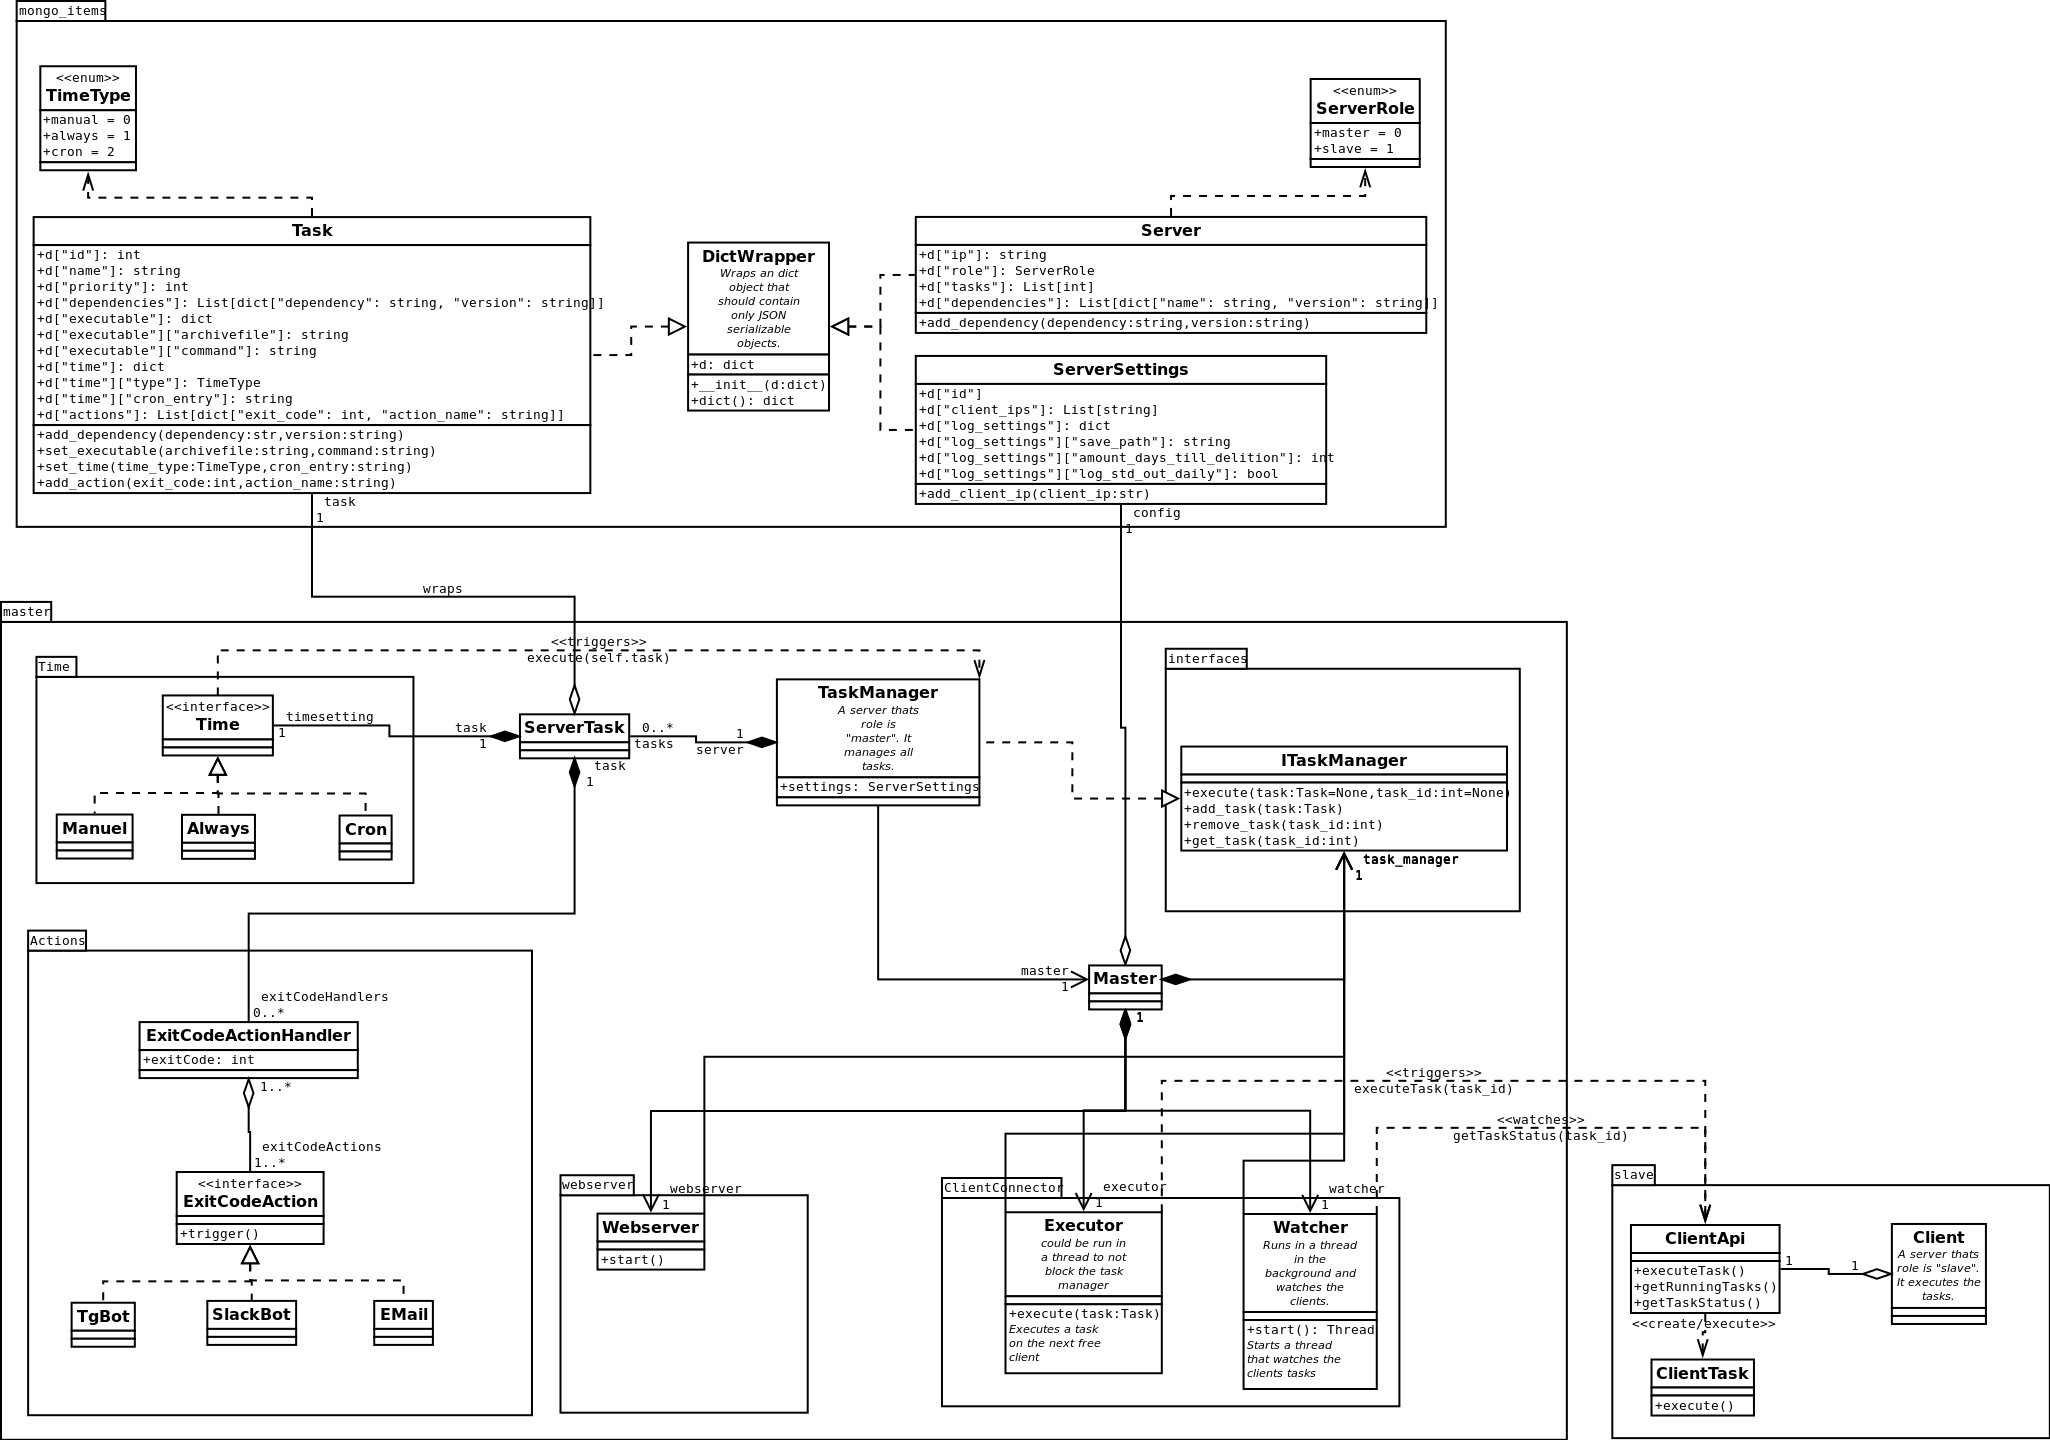
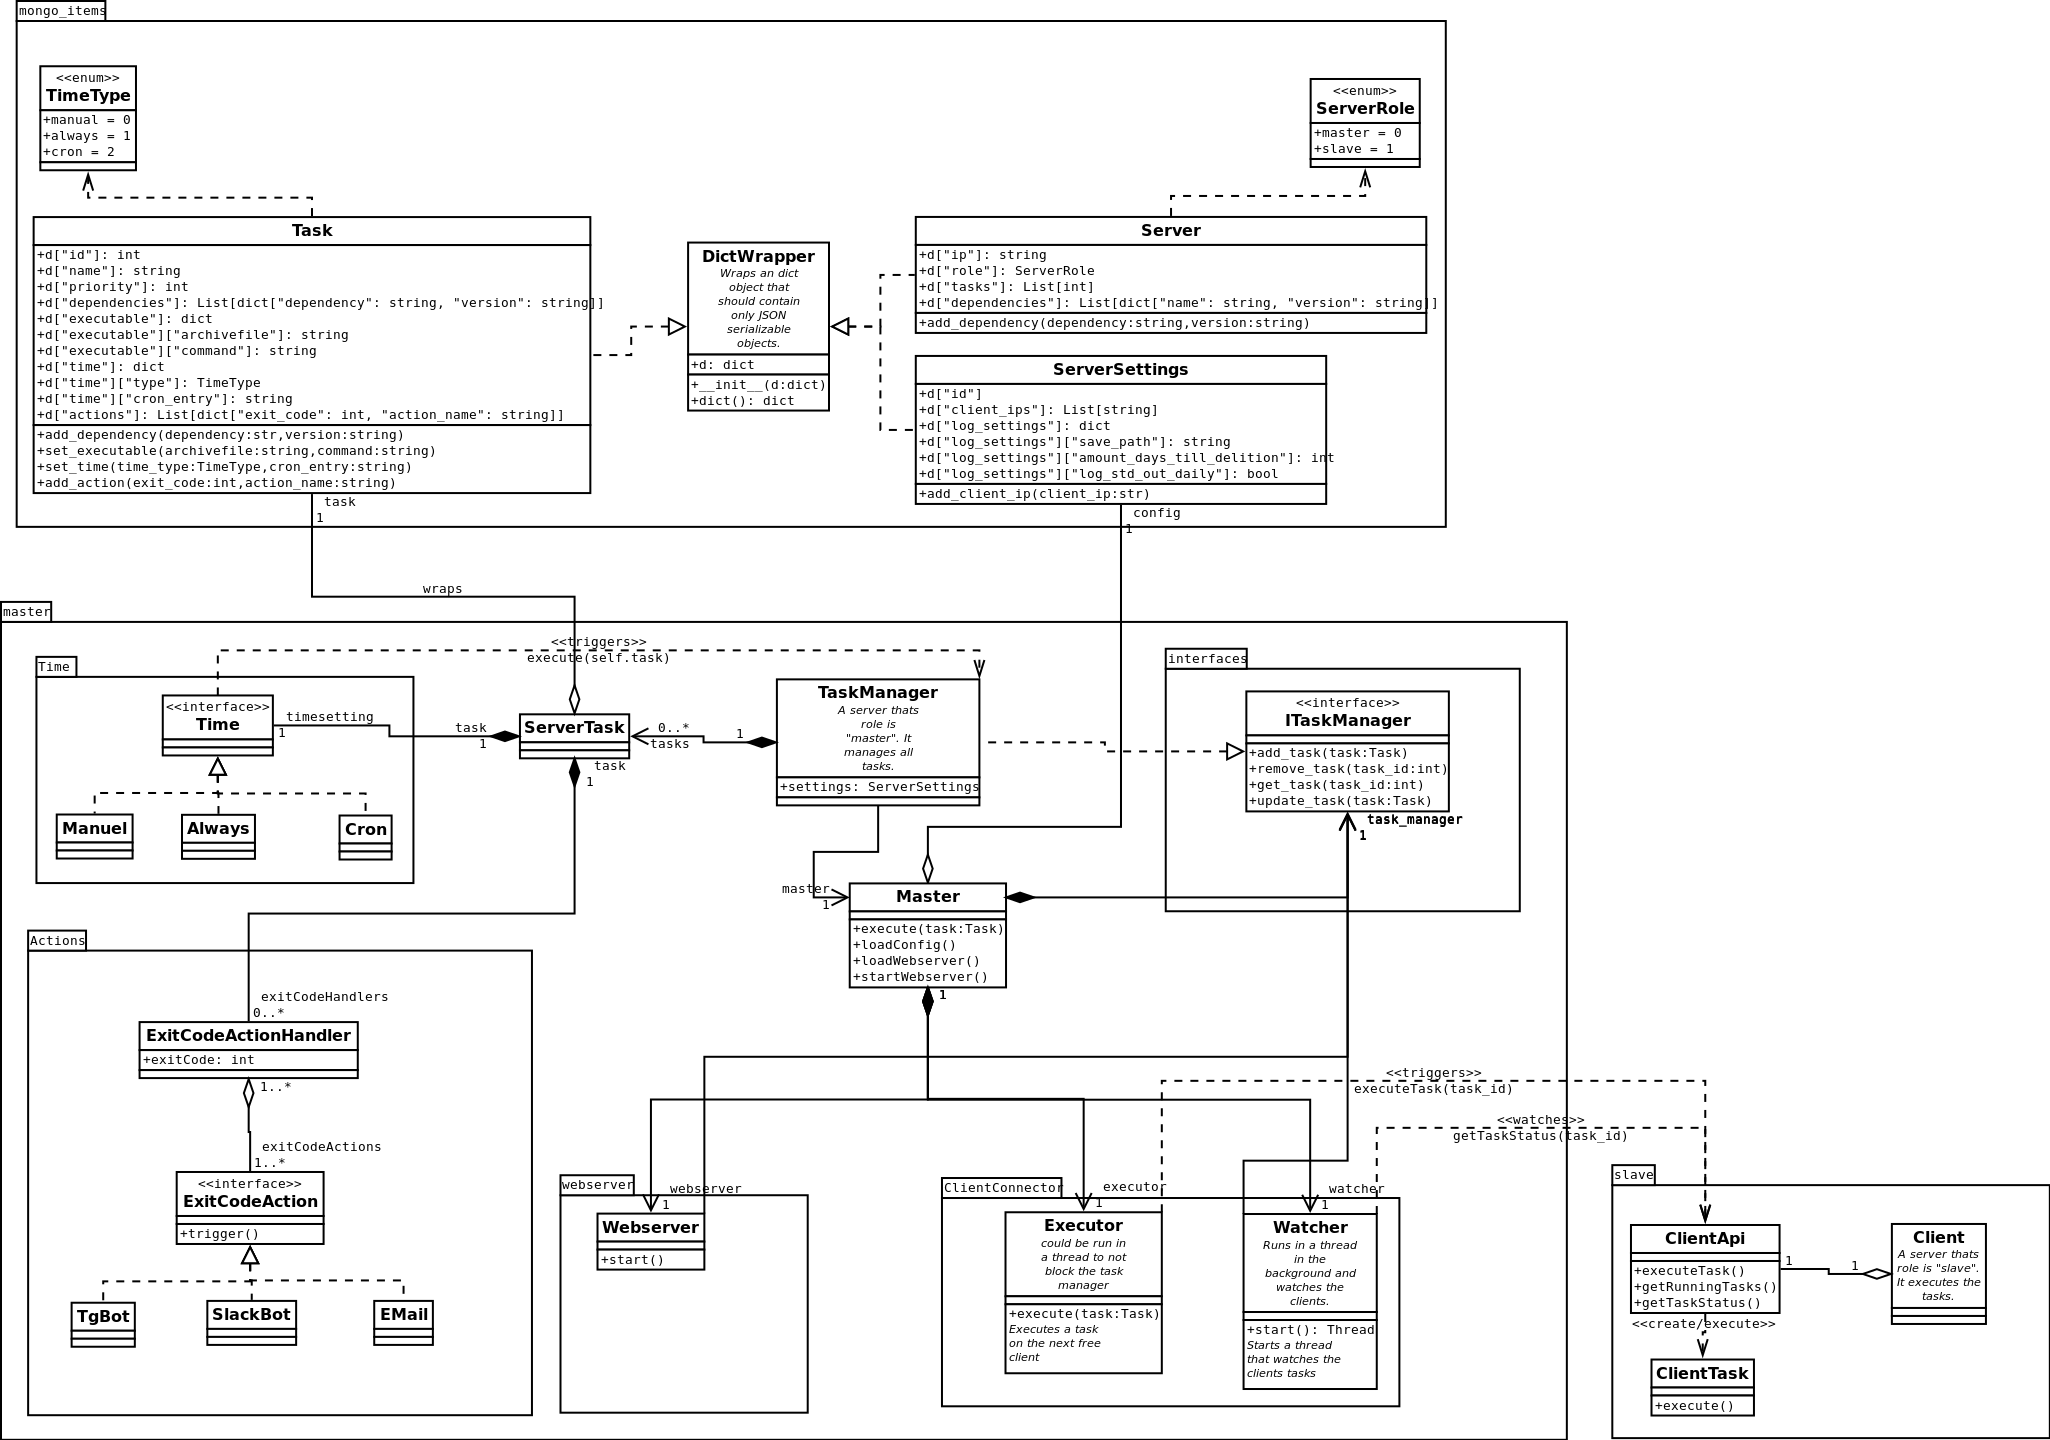
moved files to submenu

diff --git a/src/master/master.py b/src/master/master.py
@@ -1,11 +1,12 @@
 # imports
 import json
-# module imports
+# parent module imports
 from mongo_items import Task
 from mongo_items import ServerSettings
 from mongo_items import Server
-from webserver import Webserver
-from interfaces import ITaskManager
+# this module imports
+from .webserver import Webserver
+from .interfaces import ITaskManager
 
 
 class MongoConnector(object):
@@ -78,12 +79,14 @@ class TaskManager(ITaskManager):
         pass
 
 
-task_man = TaskManager()
-master = Master(task_man)
-task_man.master = master
-print("All tasks:")
-for task in task_man.tasks:
-    print(task.task.dict())
-print("Settings:")
-print(master.config.dict())
-master.startWebserver()
+def main():
+    task_man = TaskManager()
+    master = Master(task_man)
+    task_man.master = master
+    print("All tasks:")
+    for task in task_man.tasks:
+        print(task.task.dict())
+    print("Settings:")
+    print(master.config.dict())
+    master.startWebserver()
+

diff --git a/src/master/interfaces.py b/src/master/interfaces.py
@@ -1,0 +1,23 @@
+# parent module imports
+from mongo_items import Task
+
+class ITaskManager(object):
+    """
+    Interface for TaskManager.
+
+    A TaskManager should manage all tasks. That means, it is a
+    container like class where tasks could be added, removed,
+    changed and updated.
+    """
+
+    def add_task(task: Task):
+        raise NotImplemented
+
+    def remove_task(task_id: int):
+        raise NotImplemented
+
+    def update_task(task: Task):
+        raise NotImplemented
+
+    def get_task(task_id: int):
+        raise NotImplemented

diff --git a/src/main.py b/src/main.py
@@ -1,29 +1,3 @@
-a = "hallo"
+from master import main
 
-
-def swap(s):
-    """TODO: Docstring for swap.
-    :returns: TODO
-
-    """
-    return a[::-1]
-
-
-class MyClass(object):
-
-    """Docstring for MyClass. """
-
-    def __init__(self):
-        """TODO: to be defined1. """
-        self.wert = 5
-        self.x = 2
-
-    def echo(self, b):
-        """TODO: Docstring for echo.
-
-        :b: TODO
-        :returns: TODO
-
-        """
-        print("hallo"+self.wert+self.x+b)
-
+main()

diff --git a/src/master/webserver.py b/src/master/webserver.py
@@ -1,6 +1,8 @@
+# imports
 from flask import Flask
 from flask import redirect, url_for, request, render_template
-from interfaces import ITaskManager
+# this module imports
+from .interfaces import ITaskManager
 
 
 class Webserver(object):

diff --git a/src/master/__init__.py b/src/master/__init__.py
@@ -1,0 +1,1 @@
+from .master import main

diff --git a/src/todo.md b/src/todo.md
@@ -1,0 +1,5 @@
+Server:
+	bool online_status
+
+interfaces.py
+	check the not implemented syntax
